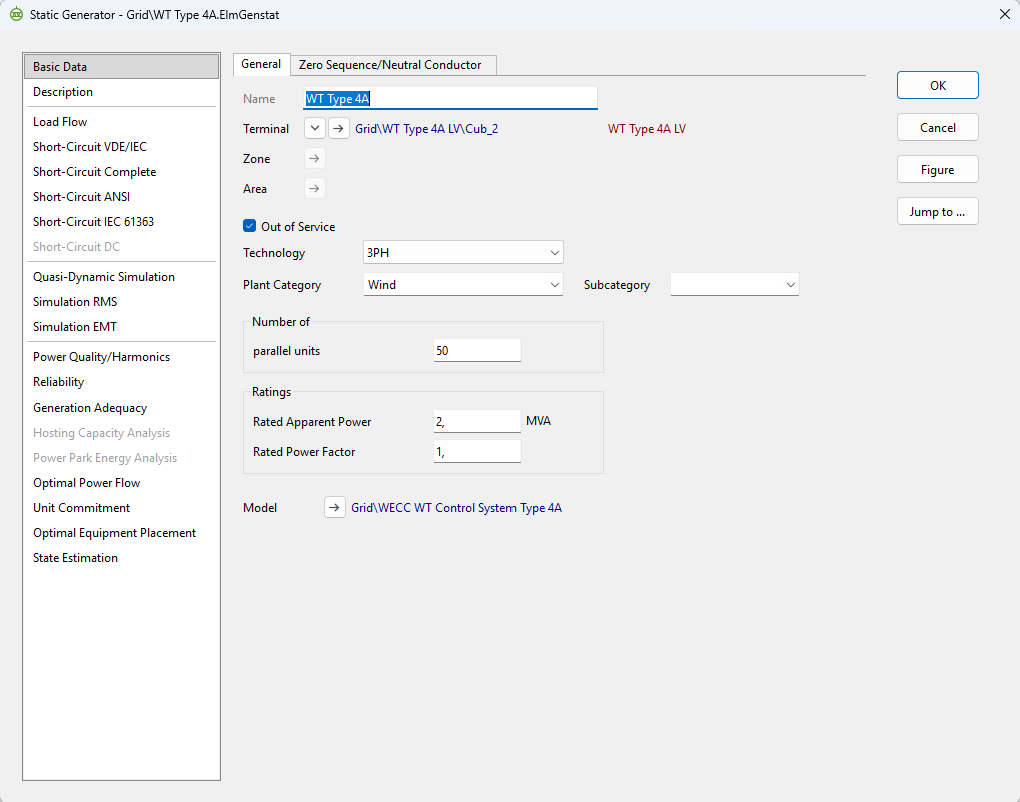
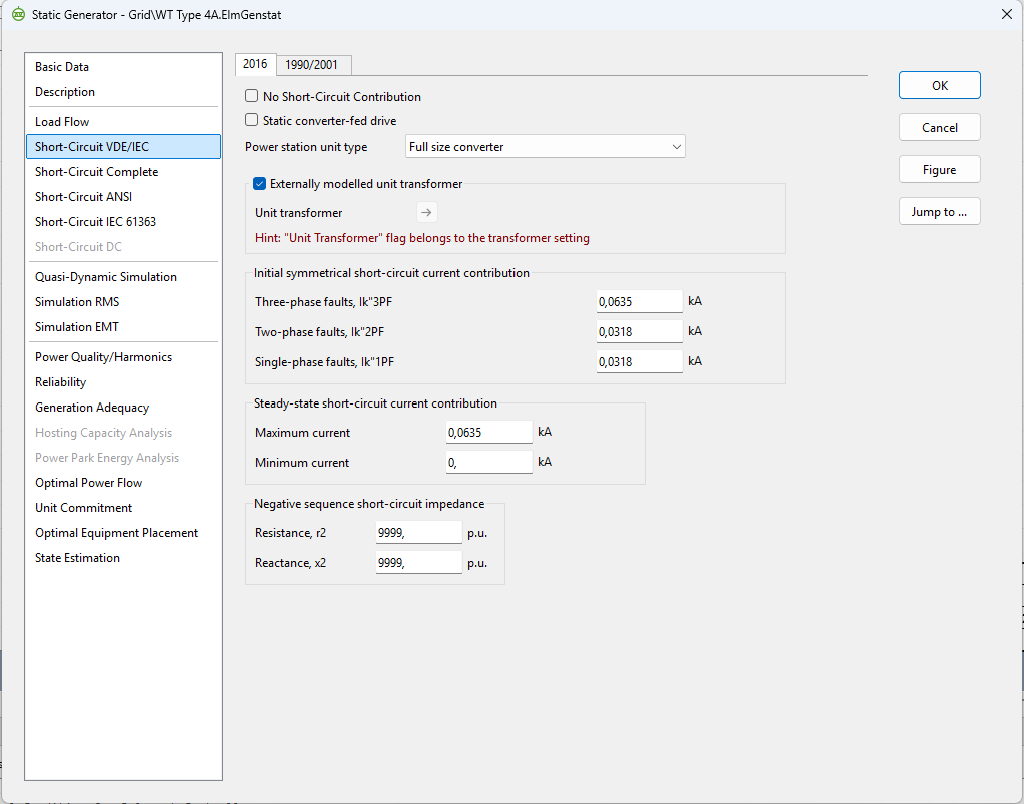
Refactor code structure for improved readability and maintainability

diff --git a/contents/chapter-4/chapter-4.tex b/contents/chapter-4/chapter-4.tex
@@ -334,9 +334,13 @@ Gambar \ref{fig:87LTIBR_plot_Cx2_Cy2} menunjukkan plot \textit{current compariso
 
 Subbab ini membahas perbandingan kontribusi hubung singkat dari masing-masing jenis IBR yang digunakan pada skenario penelitian, yaitu \textit{wind turbine type 3}, \textit{wind turbine type 4}, dan \textit{photovoltaic}. Pembahasan ini ditempatkan sebelum analisis respons relay karena besar kecilnya kontribusi arus gangguan dari sumber IBR dapat memengaruhi besaran listrik yang dibaca oleh relay, terutama pada kondisi gangguan dan konfigurasi jaringan tertentu.
 
+Model IBR yang digunakan pada penelitian ini merupakan model yang tersedia pada DIgSILENT PowerFactory, yaitu model WECC untuk \textit{wind turbine type 3} dan \textit{wind turbine type 4}, serta model \textit{distributed small PV plants} untuk \textit{photovoltaic}. Model tersebut digunakan tanpa modifikasi terhadap struktur maupun karakteristik internalnya karena pembahasan penelitian ini tidak diarahkan untuk mengevaluasi model dinamik atau kontrol internal IBR. Fokus penelitian ditempatkan pada pengaruh keberadaan masing-masing jenis IBR terhadap kontribusi arus hubung singkat dan respons relay proteksi saluran.
+
 Hasil kontribusi hubung singkat pada bagian ini digunakan sebagai konteks awal untuk membaca perubahan respons relay 21 dan relay 87L pada subbab berikutnya. Dengan membandingkan kontribusi setiap jenis IBR, pengaruh karakteristik sumber terhadap arus gangguan dapat ditelusuri lebih jelas sebelum dikaitkan dengan impedansi tampak, syarat \textit{starting}, arus diferensial, arus \textit{restraint}, dan keputusan operasi relay.
 
 \subsection{Wind Turbine Type 3}
+
+Pembahasan pada model \textit{wind turbine type 3} diawali dari pengaturan hubung singkat yang digunakan pada simulasi. Pengaturan ini penting karena WT Type 3 memiliki karakteristik yang berbeda dari WT Type 4. WT Type 3 masih menggunakan generator induksi \textit{doubly fed}, tetapi kontribusi arus gangguannya pada simulasi tetap bergantung pada parameter hubung singkat yang dimasukkan pada model.
 
 \begin{figure}[H]
     \centering
@@ -345,6 +349,10 @@ Hasil kontribusi hubung singkat pada bagian ini digunakan sebagai konteks awal u
     \label{fig:SC_Setting_WTT3}
 \end{figure}
 
+Gambar \ref{fig:SC_Setting_WTT3} menunjukkan bahwa model WT Type 3 pada tab VDE/IEC untuk hubung singkat menggunakan tipe unit \textit{doubly fed asynchronous generator} dengan transformator unit yang dimodelkan secara eksternal. Pada pengaturan tersebut, opsi \textit{No Short-Circuit Contribution} tidak diaktifkan. Namun, nilai kontribusi arus hubung singkat yang dimasukkan pada model bernilai 0 $\mathrm{kA}$, sehingga model tidak memberikan kontribusi arus gangguan pada kondisi yang dihitung.
+
+Parameter pada Gambar \ref{fig:SC_Setting_WTT3} memperlihatkan bahwa nilai \textit{max. instantaneous short-circuit current} ditetapkan sebesar 0 $\mathrm{kA}$. Pada bagian \textit{steady-state short-circuit current contribution}, arus maksimum dan arus minimum juga bernilai 0 $\mathrm{kA}$. Selain itu, impedansi urutan negatif pada parameter $r_2$ dan $x_2$ ditetapkan sangat besar, yaitu 9999 p.u. Kombinasi pengaturan ini menunjukkan bahwa WT Type 3 tidak menyediakan jalur kontribusi arus gangguan yang signifikan pada simulasi hubung singkat.
+
 \begin{figure}[H]
     \centering
     \includegraphics[width=0.8\textwidth]{contents/chapter-4/kontribusi_WTType3.png}
@@ -352,11 +360,24 @@ Hasil kontribusi hubung singkat pada bagian ini digunakan sebagai konteks awal u
     \label{fig:kontribusi_WTType3}
 \end{figure}
 
-Berdasarkan hasil simulasi, \textit{wind turbine type 3} tidak memberikan kontribusi arus hubung singkat pada kondisi yang diamati. Hal ini ditunjukkan pada Gambar \ref{fig:kontribusi_WTType3}, yaitu nilai kontribusi hubung singkat yang terbaca sebesar 0 MVA. Dengan nilai tersebut, keberadaan \textit{wind turbine type 3} pada skenario ini tidak menambah komponen arus gangguan dari sisi IBR terhadap titik gangguan yang dievaluasi.
+Berdasarkan hasil simulasi pada Gambar \ref{fig:kontribusi_WTType3}, kontribusi hubung singkat dari \textit{wind turbine type 3} terbaca sebesar 0 MVA. Hasil ini konsisten dengan pengaturan pada Gambar \ref{fig:SC_Setting_WTT3}, karena arus hubung singkat awal maupun tunak pada model ditetapkan sebesar 0 $\mathrm{kA}$. Dengan demikian, WT Type 3 tidak menambah komponen arus gangguan dari sisi IBR terhadap titik gangguan yang dievaluasi.
 
-Kondisi kontribusi sebesar 0 MVA ini menunjukkan bahwa respons proteksi pada skenario dengan \textit{wind turbine type 3} tidak didorong oleh tambahan arus hubung singkat dari unit IBR tersebut. Oleh karena itu, pembacaan relay pada skenario berikutnya perlu dilihat dengan memperhatikan bahwa kontribusi arus gangguan masih lebih dipengaruhi oleh sistem konvensional dan konfigurasi jaringan yang sedang aktif.
+Implikasinya, respons proteksi pada skenario dengan WT Type 3 tidak dapat dijelaskan sebagai akibat tambahan kontribusi arus hubung singkat dari unit tersebut. Jika pada bagian berikutnya terdapat perubahan pembacaan impedansi tampak, arus diferensial, arus \textit{restraint}, atau keputusan operasi relay, perubahan tersebut perlu dikaitkan dengan konfigurasi jaringan, lokasi gangguan, dan kontribusi dari sumber lain yang masih aktif. Dengan demikian, hasil pada subbagian ini menjadi dasar bahwa pengaruh WT Type 3 pada analisis relay berikutnya bukan berasal dari injeksi arus gangguan tambahan dari unit WT Type 3.
 
 \subsection{Wind Turbine Type 4}
+
+Pembahasan pada model \textit{wind turbine type 4} diawali dari pengaturan hubung singkat yang digunakan pada simulasi. Berbeda dengan WT Type 3 dan PV yang tidak menunjukkan kontribusi arus hubung singkat pada hasil perbandingan ini, model WT Type 4 masih memiliki parameter kontribusi arus gangguan yang aktif. Oleh karena itu, pengaturan pada menu hubung singkat perlu dicermati sebelum hasil kontribusi pada sistem dianalisis.
+
+\begin{figure}[H]
+    \centering
+    \includegraphics[width=0.8\textwidth]{contents/chapter-4/SC_Setting_WTT4.png}
+    \caption{Setting Short Circuit Pada Model Wind Turbine Type 4}
+    \label{fig:SC_Setting_WTT4}
+\end{figure}
+
+Gambar \ref{fig:SC_Setting_WTT4} menunjukkan bahwa model WT Type 4 pada tab VDE/IEC untuk hubung singkat menggunakan tipe unit \textit{full size converter}. Karakter ini menunjukkan bahwa kontribusi arus gangguan WT Type 4 tidak berasal dari hubungan elektromagnetik langsung antara generator dan jaringan, tetapi dibatasi oleh konverter penuh serta parameter arus gangguan yang dimasukkan pada model. Pada gambar tersebut, opsi \textit{No Short-Circuit Contribution} tidak diaktifkan, sehingga WT Type 4 tetap diperhitungkan sebagai sumber kontribusi hubung singkat dalam simulasi.
+
+Parameter pada Gambar \ref{fig:SC_Setting_WTT4} memperlihatkan bahwa arus hubung singkat awal untuk gangguan tiga fasa ditetapkan sebesar 0,0635 $\mathrm{kA}$, sedangkan untuk gangguan dua fasa dan satu fasa masing-masing sebesar 0,0318 $\mathrm{kA}$. Pada kondisi tunak, arus maksimum ditetapkan sebesar 0,0635 $\mathrm{kA}$ dan arus minimum sebesar 0 $\mathrm{kA}$. Selain itu, impedansi urutan negatif pada parameter $r_2$ dan $x_2$ bernilai sangat besar, yaitu 9999 p.u. Kombinasi pengaturan ini menunjukkan bahwa kontribusi WT Type 4 tetap ada, tetapi besar dan karakteristiknya dibatasi oleh model konverter penuh.
 
 \begin{figure}[H]
     \centering
@@ -365,13 +386,26 @@ Kondisi kontribusi sebesar 0 MVA ini menunjukkan bahwa respons proteksi pada ske
     \label{fig:kontribusi_WTType4}
 \end{figure}
 
-Berdasarkan hasil simulasi, \textit{wind turbine type 4} memberikan kontribusi hubung singkat pada sistem. Hal ini terlihat pada Gambar \ref{fig:kontribusi_WTType4}, yaitu nilai kontribusi hubung singkat yang terbaca sebesar 110 MVA. Nilai tersebut menunjukkan bahwa \textit{wind turbine type 4} tetap memberikan kontribusi terhadap kondisi gangguan, dengan besar kontribusi yang setara dengan 1,1 p.u.
+Berdasarkan hasil simulasi pada Gambar \ref{fig:kontribusi_WTType4}, \textit{wind turbine type 4} memberikan kontribusi hubung singkat sebesar 110 MVA atau setara dengan 1,1 p.u. Hasil ini konsisten dengan pengaturan pada Gambar \ref{fig:SC_Setting_WTT4}, karena opsi kontribusi hubung singkat tidak dinonaktifkan dan model masih memiliki batas arus gangguan yang didefinisikan.
 
-Selain ditunjukkan dalam satuan daya hubung singkat, hasil pada Gambar \ref{fig:kontribusi_WTType4} juga menunjukkan kontribusi arus hubung singkat sebesar 92,029 $\mathrm{kA}$ atau 1,14 p.u. Nilai arus tersebut memperlihatkan bahwa \textit{wind turbine type 4} masih menyuplai arus gangguan pada saat terjadi hubung singkat. Dengan demikian, \textit{wind turbine type 4} menjadi satu-satunya jenis IBR pada hasil perbandingan ini yang menunjukkan kontribusi hubung singkat tidak nol.
+Selain dalam satuan daya hubung singkat, Gambar \ref{fig:kontribusi_WTType4} juga menunjukkan kontribusi arus hubung singkat sebesar 92,029 $\mathrm{kA}$ atau 1,14 p.u. Nilai ini menegaskan bahwa WT Type 4 masih menyuplai arus gangguan pada kondisi yang diuji. Dengan demikian, WT Type 4 menjadi jenis IBR yang perlu mendapat perhatian khusus pada analisis relay berikutnya, karena kontribusi arus gangguannya dapat memengaruhi besaran yang terbaca oleh relay 21 maupun relay 87L.
 
-Adanya kontribusi tersebut membuat \textit{wind turbine type 4} berbeda dari jenis IBR lain yang tidak menunjukkan kontribusi hubung singkat pada hasil simulasi ini. Perbedaan ini penting untuk diperhatikan karena tambahan kontribusi dari sumber IBR dapat memengaruhi besaran arus yang mengalir selama gangguan. Kondisi tersebut kemudian dapat berdampak pada pembacaan relay dan menjadi salah satu konteks dalam evaluasi operasi proteksi pada bagian berikutnya.
+Implikasinya, respons proteksi pada skenario dengan WT Type 4 tidak dapat dibaca dengan asumsi bahwa sumber IBR tidak menyuplai arus gangguan. Berbeda dengan WT Type 3 dan PV yang menunjukkan kontribusi 0 MVA, WT Type 4 memberikan tambahan kontribusi hubung singkat yang dapat memengaruhi arus gangguan, impedansi tampak, arus diferensial, dan arus \textit{restraint}. Oleh karena itu, hasil pada subbagian ini menjadi dasar untuk membaca perubahan respons relay pada skenario yang melibatkan WT Type 4.
 
 \subsection{Photovoltaic}
+
+Pembahasan pada model \textit{photovoltaic} diawali dari pengaturan kontribusi hubung singkat yang digunakan pada simulasi. Hal ini diperlukan karena hasil kontribusi arus gangguan dari PV tidak hanya dipengaruhi oleh jenis sumbernya, tetapi juga oleh opsi pemodelan yang diaktifkan pada menu hubung singkat.
+
+\begin{figure}[H]
+    \centering
+    \includegraphics[width=0.8\textwidth]{contents/chapter-4/SC_Setting_PV.png}
+    \caption{Setting Short Circuit Pada Model Photovoltaic}
+    \label{fig:SC_Setting_PV}
+\end{figure}
+
+Gambar \ref{fig:SC_Setting_PV} menunjukkan bahwa pada tab VDE/IEC untuk hubung singkat, opsi \textit{No short-circuit contribution} berada dalam keadaan aktif. Dengan pengaturan tersebut, model \textit{photovoltaic} tidak diperhitungkan sebagai sumber kontribusi arus hubung singkat pada perhitungan gangguan. Artinya, arus gangguan dari sisi PV sengaja tidak dimasukkan ke dalam kalkulasi hubung singkat yang digunakan pada bagian ini.
+
+Konsekuensi dari pengaturan tersebut adalah model PV tidak memiliki parameter kontribusi arus hubung singkat yang aktif seperti pada model WT Type 4. Oleh karena itu, sebelum membaca hasil kontribusi pada gambar berikutnya, perlu dipahami bahwa nilai yang muncul merupakan dampak langsung dari opsi pemodelan pada Gambar \ref{fig:SC_Setting_PV}, bukan akibat keterbatasan pembacaan hasil simulasi.
 
 \begin{figure}[H]
     \centering
@@ -380,9 +414,9 @@ Adanya kontribusi tersebut membuat \textit{wind turbine type 4} berbeda dari jen
     \label{fig:kontribusi_PV}
 \end{figure}
 
-Berdasarkan hasil simulasi, \textit{photovoltaic} tidak memberikan kontribusi arus hubung singkat pada kondisi yang diamati. Gambar \ref{fig:kontribusi_PV} menunjukkan bahwa nilai kontribusi hubung singkat dari \textit{photovoltaic} bernilai 0 MVA. Dengan demikian, pada skenario ini unit \textit{photovoltaic} tidak menambah kontribusi arus gangguan terhadap sistem.
+Berdasarkan hasil simulasi pada Gambar \ref{fig:kontribusi_PV}, kontribusi hubung singkat dari \textit{photovoltaic} terbaca sebesar 0 MVA. Hasil ini konsisten dengan pengaturan sebelumnya, karena opsi \textit{No short-circuit contribution} membuat unit PV tidak menyuplai arus gangguan tambahan ke sistem. Dengan demikian, pada skenario ini PV berperan sebagai sumber yang terhubung pada sistem, tetapi tidak menjadi penyumbang arus hubung singkat dalam perhitungan gangguan.
 
-Nilai kontribusi sebesar 0 MVA tersebut menunjukkan bahwa pengaruh \textit{photovoltaic} terhadap respons relay tidak berasal dari tambahan arus hubung singkat yang besar dari sisi IBR. Oleh karena itu, jika terdapat perubahan pembacaan relay pada skenario dengan \textit{photovoltaic}, perubahan tersebut perlu dikaitkan dengan kondisi sistem, konfigurasi jaringan, serta besaran yang terbaca pada terminal relay, bukan dengan adanya tambahan kontribusi hubung singkat dari unit \textit{photovoltaic}.
+Implikasinya, respons relay pada skenario dengan \textit{photovoltaic} tidak dapat dijelaskan sebagai akibat tambahan kontribusi arus hubung singkat dari sisi PV. Jika pada bagian berikutnya terdapat perubahan pembacaan impedansi tampak, arus diferensial, arus \textit{restraint}, atau keputusan operasi relay, perubahan tersebut perlu dikaitkan dengan konfigurasi jaringan, lokasi gangguan, dan besaran listrik yang terbaca pada terminal relay. Dengan demikian, hasil pada subbagian ini menjadi dasar bahwa pengaruh PV pada analisis relay berikutnya tidak berasal dari injeksi arus gangguan tambahan dari unit PV.
 
 
 \section{Respons Relay 21 pada Sistem dengan WT Type 3}